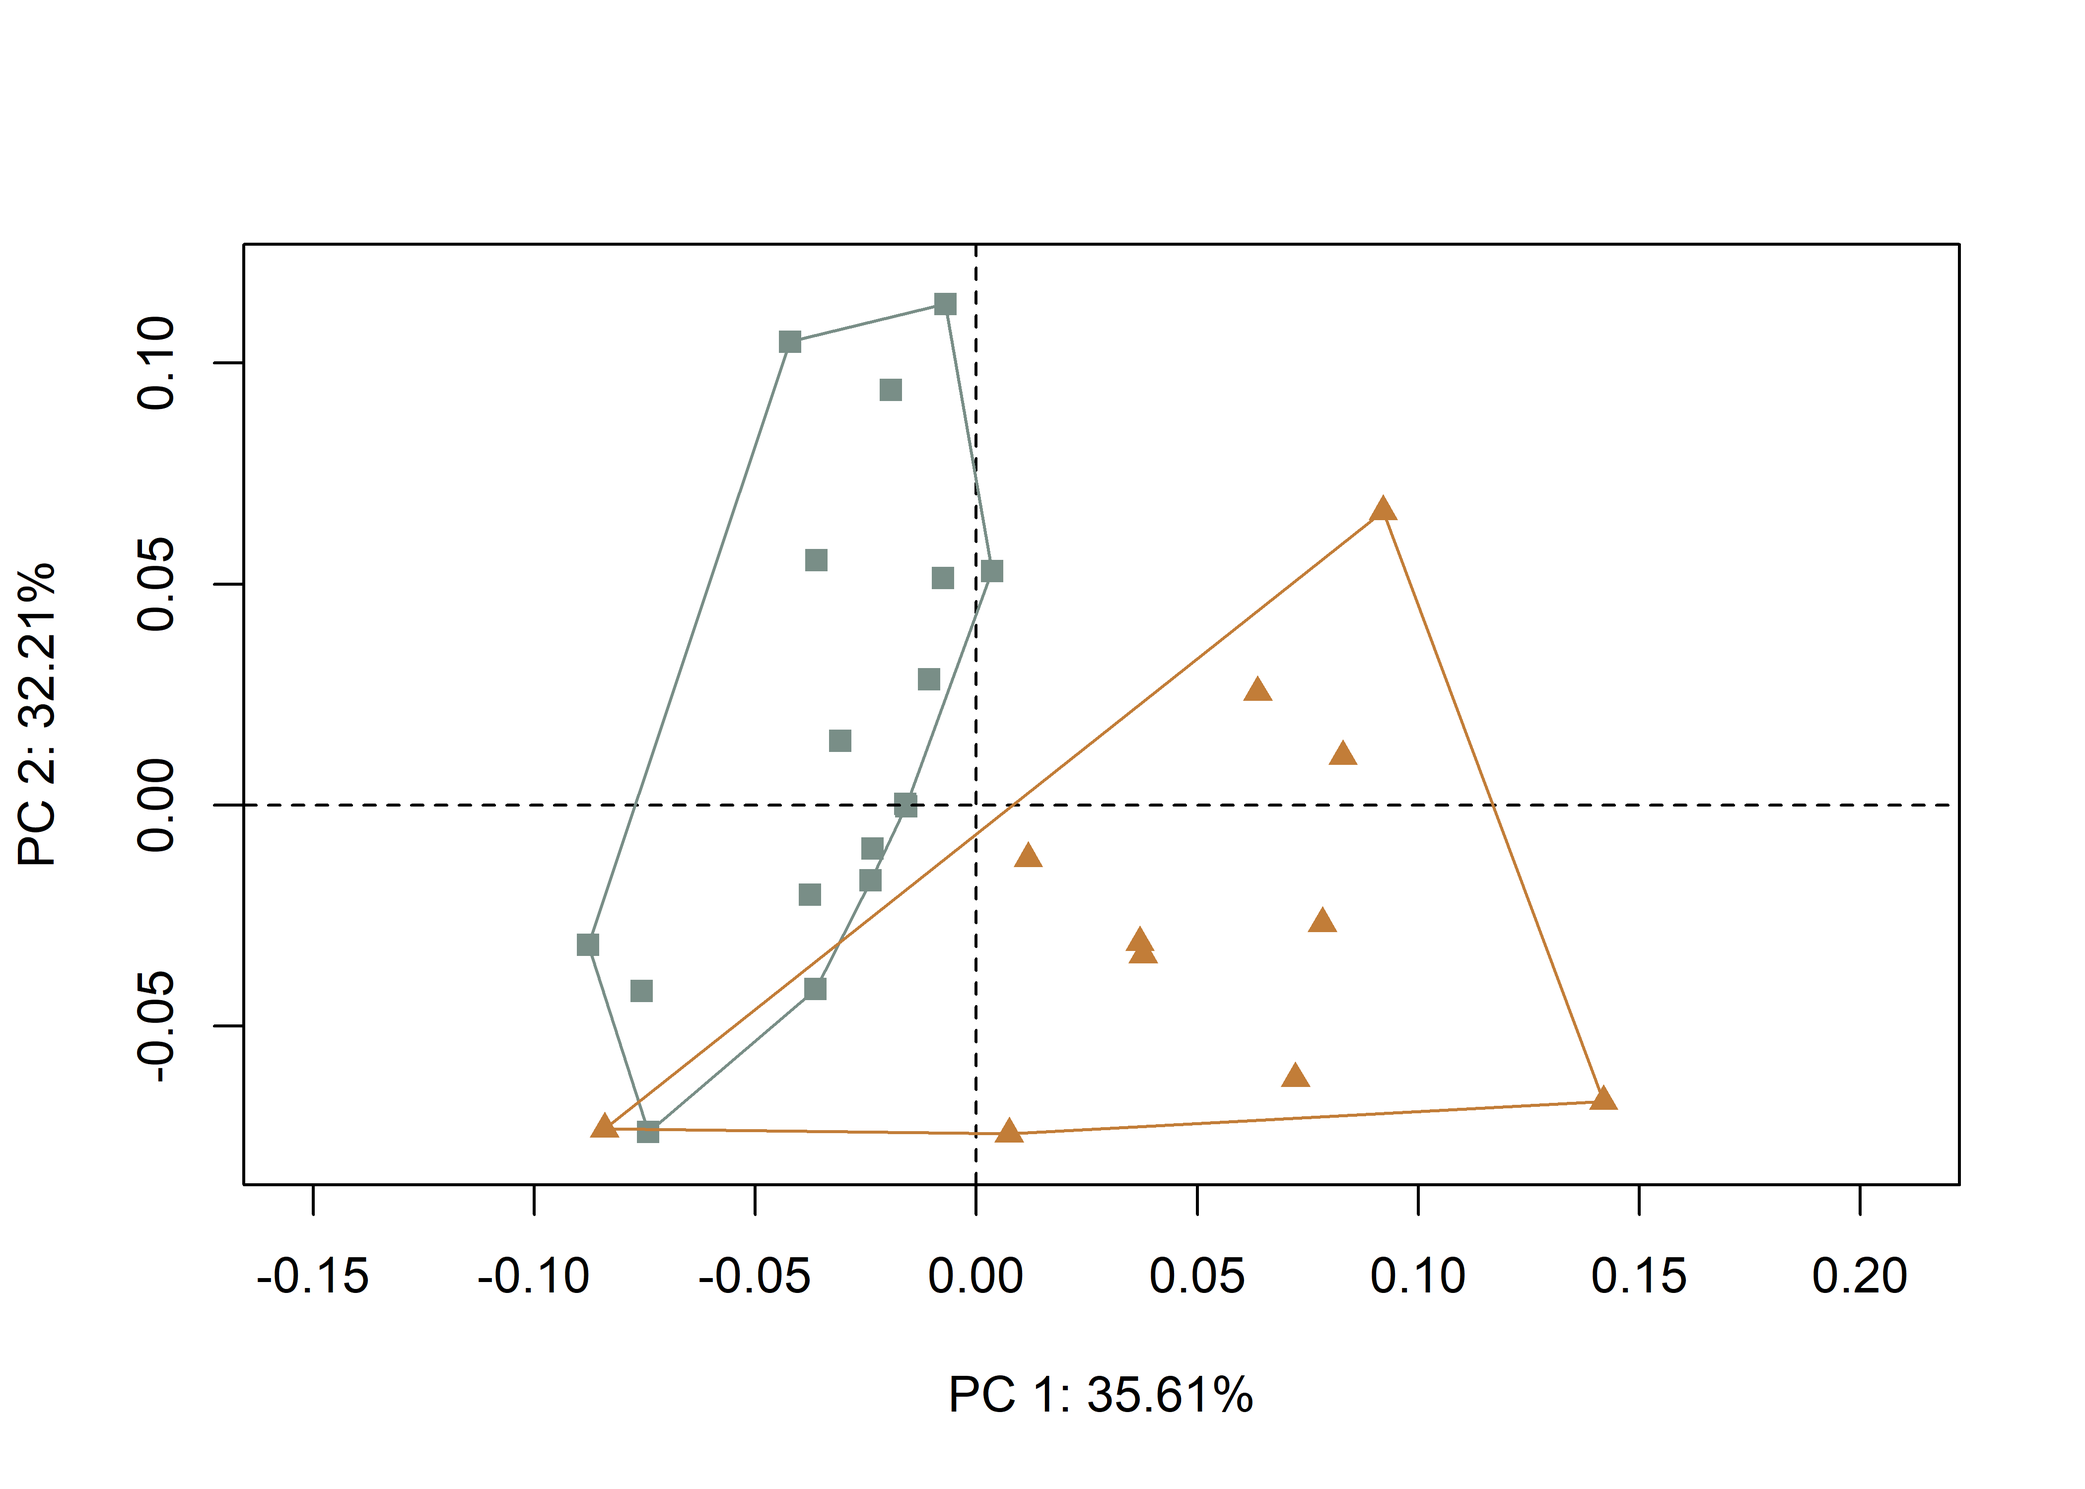
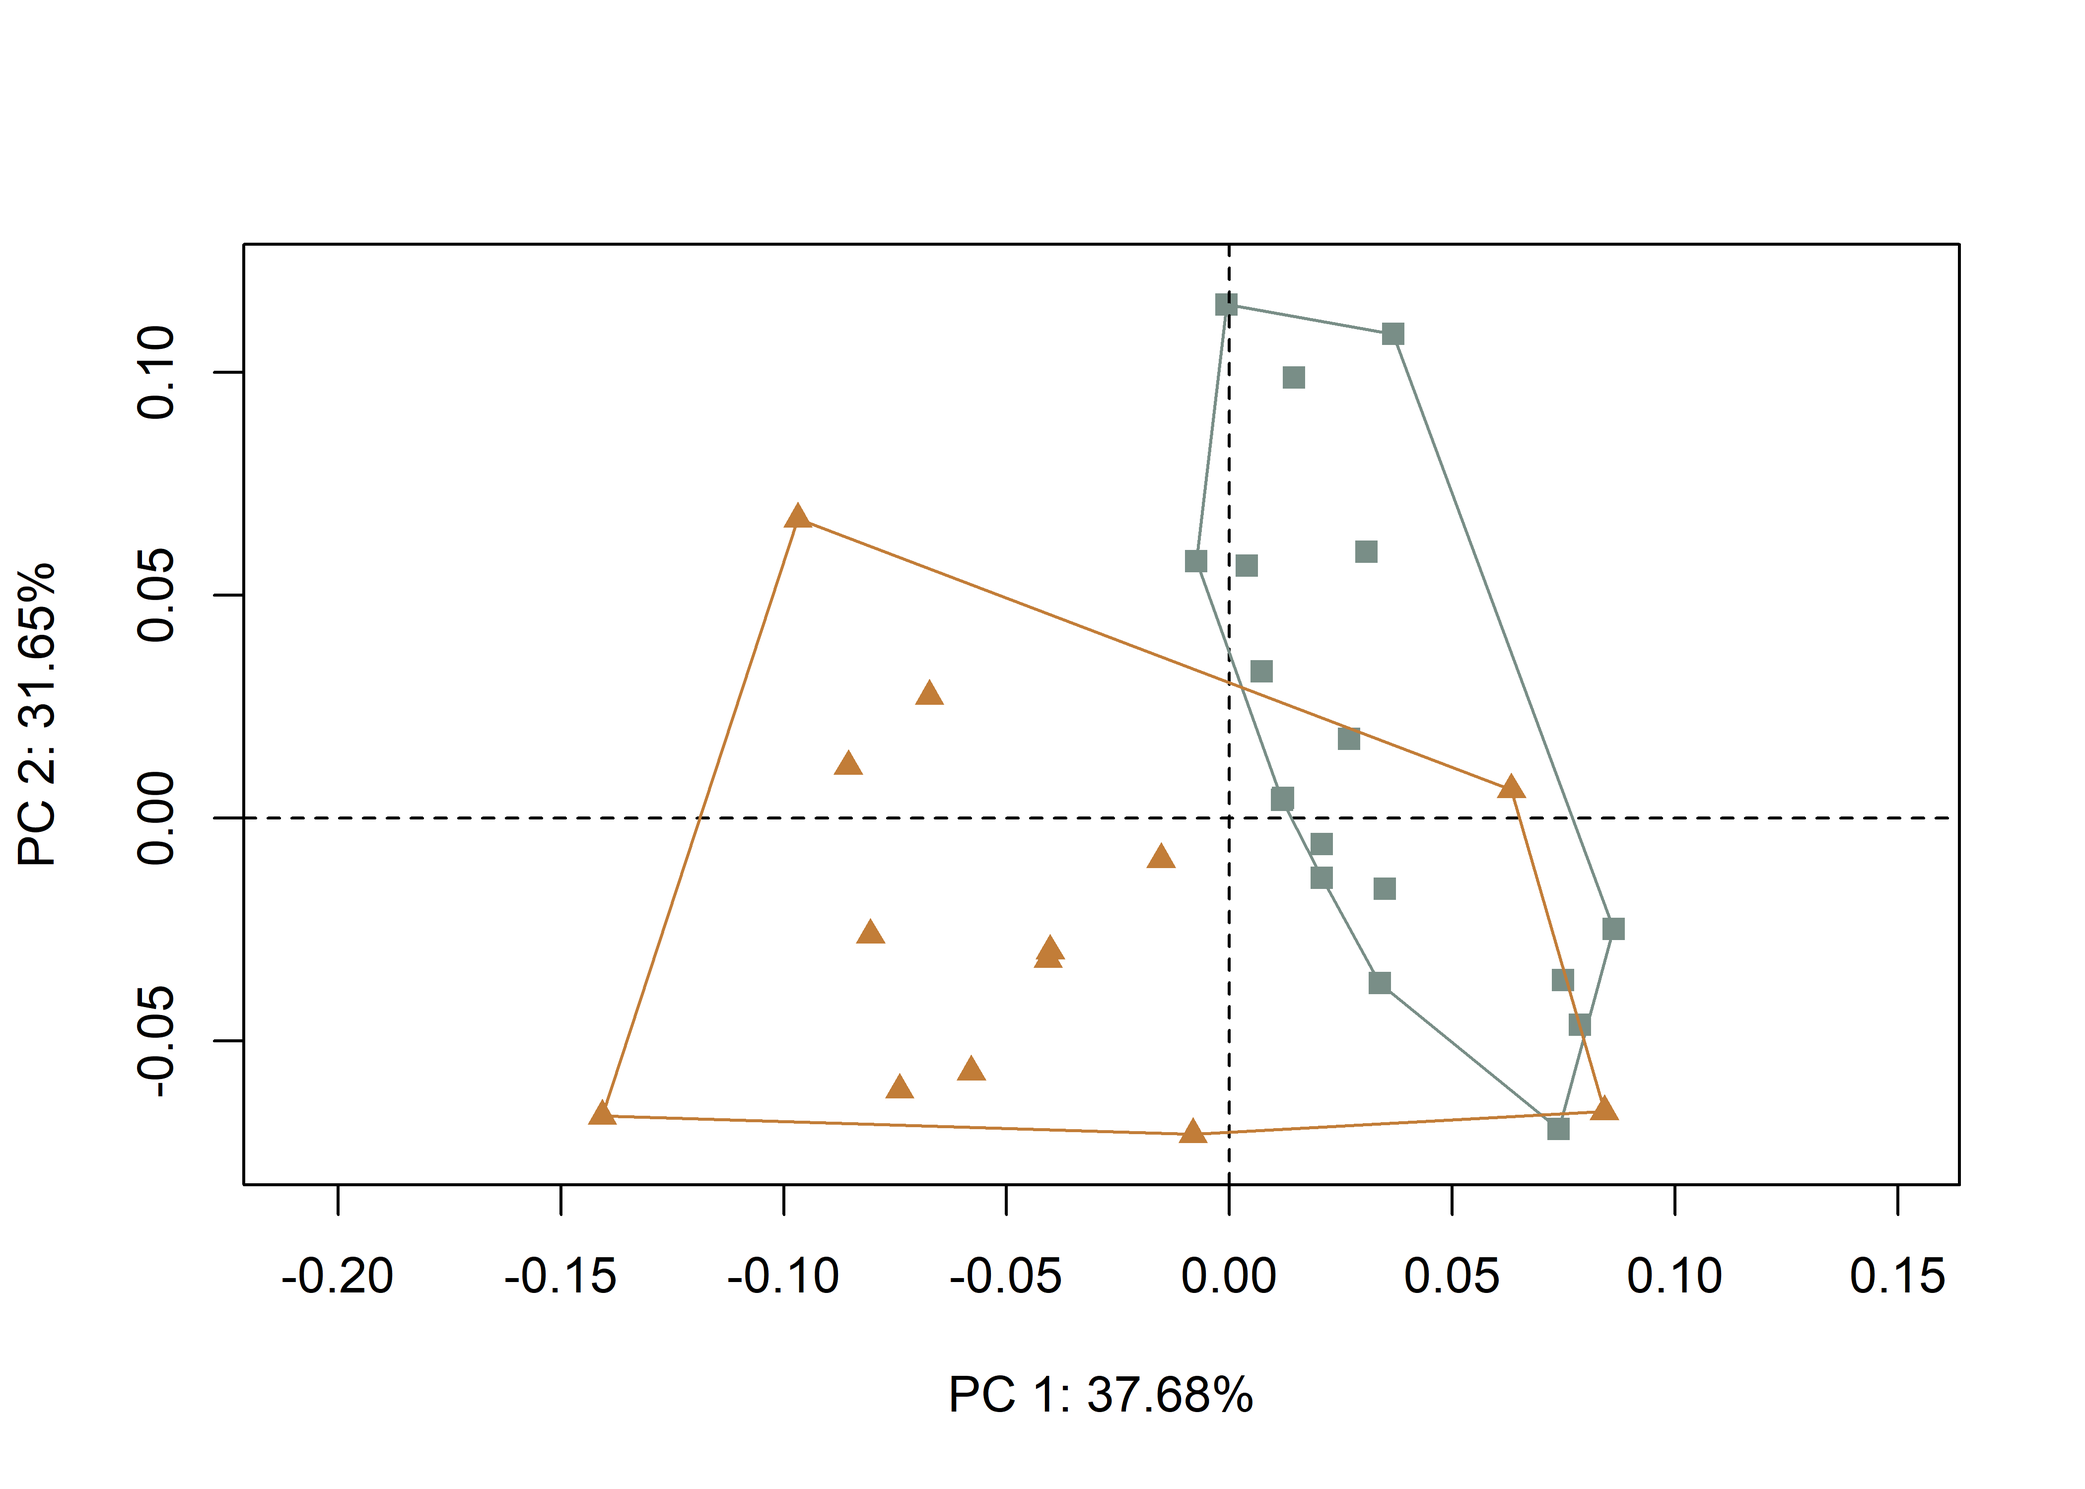
<add samples>

diff --git a/supp/_book/geometric-morphometrics.html b/supp/_book/geometric-morphometrics.html
@@ -24,7 +24,7 @@
 <meta name="author" content="R. Alan Covey, Robert Z. Selden Jr., Nicole Payntar, and Astrid Runggaldier" />
 
 
-<meta name="date" content="2021-11-05" />
+<meta name="date" content="2021-11-18" />
 
   <meta name="viewport" content="width=device-width, initial-scale=1" />
   <meta name="apple-mobile-web-app-capable" content="yes" />
@@ -246,9 +246,9 @@ div.csl-indent {
 <div class="sourceCode" id="cb7"><pre class="sourceCode r"><code class="sourceCode r"><span id="cb7-1"><a href="geometric-morphometrics.html#cb7-1" aria-hidden="true" tabindex="-1"></a><span class="fu">library</span>(tidyverse)</span></code></pre></div>
 <pre><code>## -- Attaching packages --------------------------------------- tidyverse 1.3.1 --</code></pre>
 <pre><code>## v ggplot2 3.3.5     v purrr   0.3.4
-## v tibble  3.1.5     v dplyr   1.0.7
+## v tibble  3.1.6     v dplyr   1.0.7
 ## v tidyr   1.1.4     v stringr 1.4.0
-## v readr   2.0.2     v forcats 0.5.1</code></pre>
+## v readr   2.1.0     v forcats 0.5.1</code></pre>
 <pre><code>## -- Conflicts ------------------------------------------ tidyverse_conflicts() --
 ## x tidyr::expand() masks Matrix::expand()
 ## x dplyr::filter() masks stats::filter()
@@ -330,150 +330,168 @@ div.csl-indent {
 <td align="center">585.9878</td>
 </tr>
 <tr class="even">
+<td align="left">1608121</td>
+<td align="left">phytomorph</td>
+<td align="center">jar</td>
+<td align="center">673.7326</td>
+</tr>
+<tr class="odd">
 <td align="left">1608122</td>
 <td align="left">zoomorph</td>
 <td align="center">bottle</td>
 <td align="center">578.2339</td>
 </tr>
-<tr class="odd">
+<tr class="even">
 <td align="left">1608124</td>
 <td align="left">zoomorph</td>
 <td align="center">bottle</td>
 <td align="center">543.0810</td>
 </tr>
+<tr class="odd">
+<td align="left">1608125</td>
+<td align="left">zoomorph</td>
+<td align="center">bottle</td>
+<td align="center">538.4608</td>
+</tr>
 <tr class="even">
+<td align="left">1608126</td>
+<td align="left">zoomorph</td>
+<td align="center">jar</td>
+<td align="center">613.1277</td>
+</tr>
+<tr class="odd">
 <td align="left">160836</td>
 <td align="left">phytomorph</td>
 <td align="center">bottle</td>
 <td align="center">509.1797</td>
 </tr>
-<tr class="odd">
+<tr class="even">
 <td align="left">160839</td>
 <td align="left">zoomorph</td>
 <td align="center">jar</td>
 <td align="center">416.4591</td>
 </tr>
-<tr class="even">
+<tr class="odd">
 <td align="left">160844</td>
 <td align="left">anthropomorph</td>
 <td align="center">jar</td>
 <td align="center">607.4952</td>
 </tr>
-<tr class="odd">
+<tr class="even">
 <td align="left">160846</td>
 <td align="left">zoomorph</td>
 <td align="center">bottle</td>
 <td align="center">545.1291</td>
 </tr>
-<tr class="even">
+<tr class="odd">
 <td align="left">160847</td>
 <td align="left">anthropomorph</td>
 <td align="center">bottle</td>
 <td align="center">416.4516</td>
 </tr>
-<tr class="odd">
+<tr class="even">
 <td align="left">160848</td>
 <td align="left">anthropomorph</td>
 <td align="center">jar</td>
 <td align="center">468.6945</td>
 </tr>
-<tr class="even">
+<tr class="odd">
 <td align="left">160849</td>
 <td align="left">anthropomorph</td>
 <td align="center">bottle</td>
 <td align="center">453.0625</td>
 </tr>
-<tr class="odd">
+<tr class="even">
 <td align="left">160850</td>
 <td align="left">anthropomorph</td>
 <td align="center">bottle</td>
 <td align="center">751.5635</td>
 </tr>
-<tr class="even">
+<tr class="odd">
 <td align="left">160852</td>
 <td align="left">zoomorph</td>
 <td align="center">bottle</td>
 <td align="center">512.1550</td>
 </tr>
-<tr class="odd">
+<tr class="even">
 <td align="left">160852x</td>
 <td align="left">anthropomorph</td>
 <td align="center">jar</td>
 <td align="center">596.2446</td>
 </tr>
-<tr class="even">
+<tr class="odd">
 <td align="left">160859</td>
 <td align="left">zoomorph</td>
 <td align="center">bottle</td>
 <td align="center">512.3332</td>
 </tr>
-<tr class="odd">
+<tr class="even">
 <td align="left">160860</td>
 <td align="left">anthropomorph</td>
 <td align="center">jar</td>
 <td align="center">449.6768</td>
 </tr>
-<tr class="even">
+<tr class="odd">
 <td align="left">160868</td>
 <td align="left">zoomorph</td>
 <td align="center">bottle</td>
 <td align="center">674.0455</td>
 </tr>
-<tr class="odd">
+<tr class="even">
 <td align="left">160873</td>
 <td align="left">anthropomorph</td>
 <td align="center">jar</td>
 <td align="center">590.1911</td>
 </tr>
-<tr class="even">
+<tr class="odd">
 <td align="left">160874</td>
 <td align="left">zoomorph</td>
 <td align="center">jar</td>
 <td align="center">574.2754</td>
 </tr>
-<tr class="odd">
+<tr class="even">
 <td align="left">160875</td>
 <td align="left">anthropomorph</td>
 <td align="center">bottle</td>
 <td align="center">687.1416</td>
 </tr>
-<tr class="even">
+<tr class="odd">
 <td align="left">160876</td>
 <td align="left">anthropomorph</td>
 <td align="center">bottle</td>
 <td align="center">591.4190</td>
 </tr>
-<tr class="odd">
+<tr class="even">
 <td align="left">160881</td>
 <td align="left">anthropomorph</td>
 <td align="center">jar</td>
 <td align="center">416.0126</td>
 </tr>
-<tr class="even">
+<tr class="odd">
 <td align="left">160882</td>
 <td align="left">zoomorph</td>
 <td align="center">bottle</td>
 <td align="center">544.4697</td>
 </tr>
-<tr class="odd">
+<tr class="even">
 <td align="left">160884</td>
 <td align="left">zoomorph</td>
 <td align="center">jar</td>
 <td align="center">418.5339</td>
 </tr>
-<tr class="even">
+<tr class="odd">
 <td align="left">160886</td>
 <td align="left">zoomorph</td>
 <td align="center">bottle</td>
 <td align="center">441.5053</td>
 </tr>
-<tr class="odd">
+<tr class="even">
 <td align="left">160888</td>
 <td align="left">anthropomorph</td>
 <td align="center">bottle</td>
 <td align="center">379.4152</td>
 </tr>
-<tr class="even">
+<tr class="odd">
 <td align="left">160892</td>
 <td align="left">anthropomorph</td>
 <td align="center">jar</td>
@@ -534,38 +552,42 @@ Figure 3.2: Boxplot of centroid size by spatial/temporal unit.
 ## Ordination type: Principal Component Analysis 
 ## Centering by OLS mean
 ## Orthogonal projection of OLS residuals
-## Number of observations: 28 
-## Number of vectors 27 
+## Number of observations: 31 
+## Number of vectors 30 
 ## 
 ## Importance of Components:
-##                              Comp1       Comp2       Comp3        Comp4
-## Eigenvalues            0.003294174 0.002979633 0.001010952 0.0008667081
-## Proportion of Variance 0.356118896 0.322115291 0.109289624 0.0936960721
-## Cumulative Proportion  0.356118896 0.678234187 0.787523811 0.8812198830
-##                               Comp5        Comp6        Comp7        Comp8
-## Eigenvalues            0.0003340314 0.0002821747 0.0002072099 0.0000650576
-## Proportion of Variance 0.0361106900 0.0305046935 0.0224005681 0.0070330966
-## Cumulative Proportion  0.9173305731 0.9478352666 0.9702358346 0.9772689312
+##                              Comp1       Comp2        Comp3        Comp4
+## Eigenvalues            0.003418181 0.002871119 0.0009186282 0.0007967678
+## Proportion of Variance 0.376814772 0.316507585 0.1012680979 0.0878344001
+## Cumulative Proportion  0.376814772 0.693322357 0.7945904554 0.8824248554
+##                               Comp5        Comp6       Comp7        Comp8
+## Eigenvalues            0.0003137184 0.0002592782 0.000197294 6.550355e-05
+## Proportion of Variance 0.0345838155 0.0285824128 0.021749374 7.221006e-03
+## Cumulative Proportion  0.9170086709 0.9455910837 0.967340457 9.745615e-01
 ##                               Comp9       Comp10       Comp11       Comp12
-## Eigenvalues            4.284672e-05 3.993731e-05 3.273074e-05 2.156769e-05
-## Proportion of Variance 4.631973e-03 4.317450e-03 3.538379e-03 2.331590e-03
-## Cumulative Proportion  9.819009e-01 9.862184e-01 9.897567e-01 9.920883e-01
+## Eigenvalues            5.282946e-05 4.019383e-05 3.670048e-05 2.058382e-05
+## Proportion of Variance 5.823835e-03 4.430903e-03 4.045802e-03 2.269127e-03
+## Cumulative Proportion  9.803853e-01 9.848162e-01 9.888620e-01 9.911311e-01
 ##                              Comp13       Comp14       Comp15       Comp16
-## Eigenvalues            1.988888e-05 1.505334e-05 8.615991e-06 6.697543e-06
-## Proportion of Variance 2.150101e-03 1.627352e-03 9.314376e-04 7.240424e-04
-## Cumulative Proportion  9.942384e-01 9.958658e-01 9.967972e-01 9.975213e-01
+## Eigenvalues            1.940266e-05 1.437509e-05 1.242412e-05 7.088428e-06
+## Proportion of Variance 2.138918e-03 1.584687e-03 1.369615e-03 7.814169e-04
+## Cumulative Proportion  9.932700e-01 9.948547e-01 9.962244e-01 9.970058e-01
 ##                              Comp17       Comp18       Comp19       Comp20
-## Eigenvalues            5.504860e-06 4.519483e-06 3.192575e-06 2.750250e-06
-## Proportion of Variance 5.951067e-04 4.885818e-04 3.451355e-04 2.973177e-04
-## Cumulative Proportion  9.981164e-01 9.986049e-01 9.989501e-01 9.992474e-01
+## Eigenvalues            5.231980e-06 5.018524e-06 4.073628e-06 3.057891e-06
+## Proportion of Variance 5.767651e-04 5.532340e-04 4.490703e-04 3.370970e-04
+## Cumulative Proportion  9.975825e-01 9.981358e-01 9.985848e-01 9.989219e-01
 ##                              Comp21       Comp22       Comp23       Comp24
-## Eigenvalues            1.988740e-06 1.630011e-06 1.205628e-06 8.531169e-07
-## Proportion of Variance 2.149941e-04 1.762135e-04 1.303352e-04 9.222679e-05
-## Cumulative Proportion  9.994624e-01 9.996386e-01 9.997689e-01 9.998612e-01
-##                              Comp25       Comp26       Comp27
-## Eigenvalues            7.930714e-07 4.791956e-07 1.196277e-08
-## Proportion of Variance 8.573553e-05 5.180376e-05 1.293243e-06
-## Cumulative Proportion  9.999469e-01 9.999987e-01 1.000000e+00</code></pre>
+## Eigenvalues            2.259590e-06 1.664839e-06 1.583056e-06 1.233835e-06
+## Proportion of Variance 2.490936e-04 1.835292e-04 1.745136e-04 1.360160e-04
+## Cumulative Proportion  9.991710e-01 9.993546e-01 9.995291e-01 9.996651e-01
+##                              Comp25       Comp26       Comp27       Comp28
+## Eigenvalues            9.314108e-07 7.510998e-07 6.467341e-07 4.543399e-07
+## Proportion of Variance 1.026772e-04 8.280004e-05 7.129494e-05 5.008570e-05
+## Cumulative Proportion  9.997678e-01 9.998506e-01 9.999219e-01 9.999719e-01
+##                              Comp29       Comp30
+## Eigenvalues            2.483239e-07 6.178015e-09
+## Proportion of Variance 2.737482e-05 6.810544e-07
+## Cumulative Proportion  9.999993e-01 1.000000e+00</code></pre>
 <div class="sourceCode" id="cb19"><pre class="sourceCode r"><code class="sourceCode r"><span id="cb19-1"><a href="geometric-morphometrics.html#cb19-1" aria-hidden="true" tabindex="-1"></a><span class="co"># set plot parameters (groups)</span></span>
 <span id="cb19-2"><a href="geometric-morphometrics.html#cb19-2" aria-hidden="true" tabindex="-1"></a>pch.gps <span class="ot">&lt;-</span> <span class="fu">c</span>(<span class="dv">15</span><span class="sc">:</span><span class="dv">17</span>)[<span class="fu">as.factor</span>(group)]</span>
 <span id="cb19-3"><a href="geometric-morphometrics.html#cb19-3" aria-hidden="true" tabindex="-1"></a>col.gps <span class="ot">&lt;-</span> <span class="fu">wes_palette</span>(<span class="st">&quot;Moonrise2&quot;</span>)[<span class="fu">as.factor</span>(group)]</span>
@@ -642,10 +664,10 @@ Figure 3.2: Boxplot of centroid size by spatial/temporal unit.
 ## Sums of Squares and Cross-products: Type I 
 ## Effect sizes (Z) based on F distributions
 ## 
-##           Df     SS      MS     Rsq      F       Z Pr(&gt;F)
-## group      2    994   497.2 0.00389 0.0488 -1.6901 0.9531
-## Residuals 25 254499 10180.0 0.99611                      
-## Total     27 255493                                      
+##           Df     SS     MS    Rsq      F        Z Pr(&gt;F)
+## group      2   7936 3968.2 0.0281 0.4048 -0.43833 0.6647
+## Residuals 28 274488 9803.1 0.9719                       
+## Total     30 282424                                     
 ## 
 ## Call: procD.lm(f1 = size ~ group, iter = 9999, data = gdf, print.progress = FALSE)</code></pre>
 <div class="sourceCode" id="cb25"><pre class="sourceCode r"><code class="sourceCode r"><span id="cb25-1"><a href="geometric-morphometrics.html#cb25-1" aria-hidden="true" tabindex="-1"></a><span class="co"># ANOVA: do group shapes differ?</span></span>
@@ -659,9 +681,9 @@ Figure 3.2: Boxplot of centroid size by spatial/temporal unit.
 ## Effect sizes (Z) based on F distributions
 ## 
 ##           Df       SS        MS     Rsq      F        Z Pr(&gt;F)
-## group      2 0.014672 0.0073359 0.05874 0.7801 -0.35144 0.6357
-## Residuals 25 0.235084 0.0094034 0.94126                       
-## Total     27 0.249756                                         
+## group      2 0.014546 0.0072732 0.05345 0.7906 -0.29542 0.6174
+## Residuals 28 0.257591 0.0091997 0.94655                       
+## Total     30 0.272137                                         
 ## 
 ## Call: procD.lm(f1 = shape ~ group, iter = 9999, data = gdf, print.progress = FALSE)</code></pre>
 <div class="sourceCode" id="cb27"><pre class="sourceCode r"><code class="sourceCode r"><span id="cb27-1"><a href="geometric-morphometrics.html#cb27-1" aria-hidden="true" tabindex="-1"></a><span class="co"># ANOVA: do type sizes differ?</span></span>
@@ -674,10 +696,10 @@ Figure 3.2: Boxplot of centroid size by spatial/temporal unit.
 ## Sums of Squares and Cross-products: Type I 
 ## Effect sizes (Z) based on F distributions
 ## 
-##           Df     SS      MS    Rsq      F       Z Pr(&gt;F)
-## type       1  13005 13004.8 0.0509 1.3944 0.72524 0.2476
-## Residuals 26 242489  9326.5 0.9491                      
-## Total     27 255493                                     
+##           Df     SS     MS     Rsq      F        Z Pr(&gt;F)
+## type       1   3593 3592.9 0.01272 0.3737 -0.10531 0.5519
+## Residuals 29 278831 9614.9 0.98728                       
+## Total     30 282424                                      
 ## 
 ## Call: procD.lm(f1 = size ~ type, iter = 9999, data = gdf, print.progress = FALSE)</code></pre>
 <div class="sourceCode" id="cb29"><pre class="sourceCode r"><code class="sourceCode r"><span id="cb29-1"><a href="geometric-morphometrics.html#cb29-1" aria-hidden="true" tabindex="-1"></a><span class="co"># ANOVA: do type shapes differ?</span></span>
@@ -690,10 +712,10 @@ Figure 3.2: Boxplot of centroid size by spatial/temporal unit.
 ## Sums of Squares and Cross-products: Type I 
 ## Effect sizes (Z) based on F distributions
 ## 
-##           Df       SS       MS     Rsq      F      Z Pr(&gt;F)    
-## type       1 0.058405 0.058405 0.23385 7.9359 3.8403  1e-04 ***
-## Residuals 26 0.191350 0.007360 0.76615                         
-## Total     27 0.249756                                          
+##           Df       SS       MS     Rsq      F     Z Pr(&gt;F)    
+## type       1 0.056396 0.056396 0.20723 7.5807 3.574  1e-04 ***
+## Residuals 29 0.215742 0.007439 0.79277                        
+## Total     30 0.272137                                         
 ## ---
 ## Signif. codes:  0 &#39;***&#39; 0.001 &#39;**&#39; 0.01 &#39;*&#39; 0.05 &#39;.&#39; 0.1 &#39; &#39; 1
 ## 

diff --git a/supp/_book/404.html b/supp/_book/404.html
@@ -24,7 +24,7 @@
 <meta name="author" content="R. Alan Covey, Robert Z. Selden Jr., Nicole Payntar, and Astrid Runggaldier" />
 
 
-<meta name="date" content="2021-11-05" />
+<meta name="date" content="2021-11-18" />
 
   <meta name="viewport" content="width=device-width, initial-scale=1" />
   <meta name="apple-mobile-web-app-capable" content="yes" />
